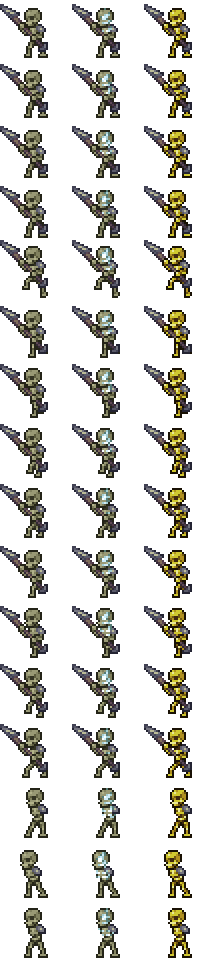
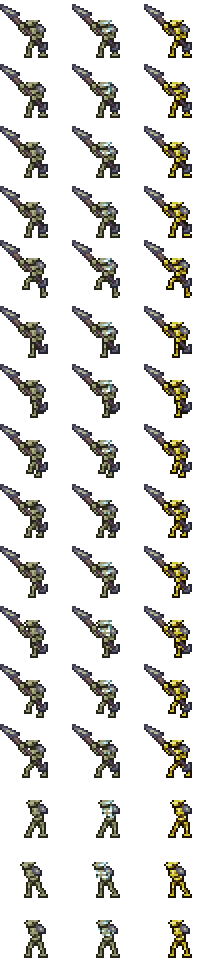
skeleton heads

diff --git a/NPCs/PreHM/SkeletonWanderer.cs b/NPCs/PreHM/SkeletonWanderer.cs
@@ -124,7 +124,7 @@ namespace Redemption.NPCs.PreHM
             if (AIState != ActionState.Stab)
                 NPC.LookByVelocity();
 
-            if (Main.rand.NextBool(500) && !Main.dedServ)
+            if (Main.rand.NextBool(1500) && !Main.dedServ)
                 SoundEngine.PlaySound(SoundLoader.GetLegacySoundSlot(Mod, "Sounds/Custom/" + SoundString + "Ambient"), NPC.position);
 
             switch (AIState)
@@ -246,6 +246,7 @@ namespace Redemption.NPCs.PreHM
             Main.dust[sparkle].velocity *= 0;
             Main.dust[sparkle].noGravity = true;
         }
+        private int HeadOffsetX;
         public override void FindFrame(int frameHeight)
         {
             if (Main.netMode != NetmodeID.Server)
@@ -257,6 +258,13 @@ namespace Redemption.NPCs.PreHM
                     PersonalityState.Greedy => NPC.frame.Width * 2,
                     _ => 0,
                 };
+                HeadX = Personality switch
+                {
+                    PersonalityState.Greedy => 1,
+                    _ => 0,
+                };
+                HeadOffset = SetHeadOffset(ref frameHeight);
+                HeadOffsetX = SetHeadOffsetX(ref frameHeight);
                 if (AIState is ActionState.Stab)
                 {
                     NPC.frameCounter++;
@@ -308,6 +316,15 @@ namespace Redemption.NPCs.PreHM
                     NPC.frame.Y = 4 * frameHeight;
                 }
             }
+        }
+        public int SetHeadOffsetX(ref int frameHeight)
+        {
+            return (NPC.frame.Y / frameHeight) switch
+            {
+                13 => 2,
+                14 => -4,
+                _ => 0,
+            };
         }
         public int GetNearestNPC(int[] WhitelistNPC = default, bool friendly = false)
         {
@@ -391,6 +408,21 @@ namespace Redemption.NPCs.PreHM
         }
         public void ChoosePersonality()
         {
+            WeightedRandom<int> head = new(Main.rand);
+            head.Add(0);
+            head.Add(1, 0.6);
+            head.Add(2, 0.6);
+            head.Add(3, 0.4);
+            head.Add(4, 0.4);
+            head.Add(5, 0.1);
+            head.Add(6, 0.1);
+            head.Add(7, 0.1);
+            head.Add(8, 0.06);
+            head.Add(9, 0.06);
+            head.Add(10, 0.06);
+            head.Add(11, 0.06);
+            HeadType = head;
+
             WeightedRandom<PersonalityState> choice = new(Main.rand);
             choice.Add(PersonalityState.Normal, 10);
             choice.Add(PersonalityState.Calm, 8);
@@ -404,10 +436,18 @@ namespace Redemption.NPCs.PreHM
         }
         public override bool PreDraw(SpriteBatch spriteBatch, Vector2 screenPos, Color drawColor)
         {
+            Texture2D head = ModContent.Request<Texture2D>("Redemption/NPCs/PreHM/Skeleton_Heads").Value;
             Texture2D glow = ModContent.Request<Texture2D>(NPC.ModNPC.Texture + "_Glow").Value;
             var effects = NPC.spriteDirection == -1 ? SpriteEffects.None : SpriteEffects.FlipHorizontally;
 
             spriteBatch.Draw(TextureAssets.Npc[NPC.type].Value, NPC.Center - screenPos - new Vector2(0, 2), NPC.frame, drawColor, NPC.rotation, NPC.frame.Size() / 2, NPC.scale, effects, 0);
+
+            int Height = head.Height / 12;
+            int Width = head.Width / 2;
+            int y = Height * HeadType;
+            int x = Width * HeadX;
+            Rectangle rect = new(x, y, Width, Height);
+            spriteBatch.Draw(head, NPC.Center - screenPos, new Rectangle?(rect), drawColor, NPC.rotation, NPC.frame.Size() / 2 + new Vector2((NPC.spriteDirection == 1 ? -26 : -20) + (HeadOffsetX * NPC.spriteDirection), -2 + HeadOffset), NPC.scale, effects, 0);
 
             if (HasEyes)
                 spriteBatch.Draw(glow, NPC.Center - screenPos - new Vector2(0, 2), NPC.frame, Color.White, NPC.rotation, NPC.frame.Size() / 2, NPC.scale, effects, 0);

diff --git a/NPCs/PreHM/EpidotrianSkeleton.cs b/NPCs/PreHM/EpidotrianSkeleton.cs
@@ -123,7 +123,7 @@ namespace Redemption.NPCs.PreHM
             NPC.TargetClosest();
             NPC.LookByVelocity();
 
-            if (Main.rand.NextBool(500) && !Main.dedServ)
+            if (Main.rand.NextBool(1500) && !Main.dedServ)
                 SoundEngine.PlaySound(SoundLoader.GetLegacySoundSlot(Mod, "Sounds/Custom/" + SoundString + "Ambient"), NPC.position);
             switch (AIState)
             {
@@ -225,6 +225,12 @@ namespace Redemption.NPCs.PreHM
                     PersonalityState.Greedy => NPC.frame.Width * 2,
                     _ => 0,
                 };
+                HeadX = Personality switch
+                {
+                    PersonalityState.Greedy => 1,
+                    _ => 0,
+                };
+                HeadOffset = SetHeadOffset(ref frameHeight);
 
                 if (NPC.collideY || NPC.velocity.Y == 0)
                 {
@@ -344,6 +350,21 @@ namespace Redemption.NPCs.PreHM
         }
         public void ChoosePersonality()
         {
+            WeightedRandom<int> head = new(Main.rand);
+            head.Add(0);
+            head.Add(1, 0.6);
+            head.Add(2, 0.6);
+            head.Add(3, 0.4);
+            head.Add(4, 0.4);
+            head.Add(5, 0.1);
+            head.Add(6, 0.1);
+            head.Add(7, 0.1);
+            head.Add(8, 0.06);
+            head.Add(9, 0.06);
+            head.Add(10, 0.06);
+            head.Add(11, 0.06);
+            HeadType = head;
+
             WeightedRandom<PersonalityState> choice = new(Main.rand);
             choice.Add(PersonalityState.Normal, 10);
             choice.Add(PersonalityState.Calm, 8);
@@ -360,10 +381,18 @@ namespace Redemption.NPCs.PreHM
         }
         public override bool PreDraw(SpriteBatch spriteBatch, Vector2 screenPos, Color drawColor)
         {
+            Texture2D head = ModContent.Request<Texture2D>("Redemption/NPCs/PreHM/Skeleton_Heads").Value;
             Texture2D glow = ModContent.Request<Texture2D>(NPC.ModNPC.Texture + "_Glow").Value;
             var effects = NPC.spriteDirection == -1 ? SpriteEffects.None : SpriteEffects.FlipHorizontally;
 
             spriteBatch.Draw(TextureAssets.Npc[NPC.type].Value, NPC.Center - screenPos, NPC.frame, NPC.IsABestiaryIconDummy ? drawColor : NPC.GetAlpha(drawColor), NPC.rotation, NPC.frame.Size() / 2, NPC.scale, effects, 0);
+
+            int Height = head.Height / 12;
+            int Width = head.Width / 2;
+            int y = Height * HeadType;
+            int x = Width * HeadX;
+            Rectangle rect = new(x, y, Width, Height);
+            spriteBatch.Draw(head, NPC.Center - screenPos, new Rectangle?(rect), drawColor, NPC.rotation, NPC.frame.Size() / 2 + new Vector2(NPC.spriteDirection == 1 ? -4 : 2, 2 + HeadOffset), NPC.scale, effects, 0);
 
             if (HasEyes)
                 spriteBatch.Draw(glow, NPC.Center - screenPos, NPC.frame, Color.White, NPC.rotation, NPC.frame.Size() / 2, NPC.scale, effects, 0);

diff --git a/NPCs/PreHM/SkeletonBase.cs b/NPCs/PreHM/SkeletonBase.cs
@@ -9,6 +9,7 @@ using Redemption.Buffs.NPCBuffs;
 using Redemption.BaseExtension;
 using Terraria.GameContent.UI;
 using Terraria.Utilities;
+using Microsoft.Xna.Framework;
 
 namespace Redemption.NPCs.PreHM
 {
@@ -20,6 +21,9 @@ namespace Redemption.NPCs.PreHM
         }
 
         public bool HasEyes;
+        public int HeadType;
+        public int HeadX;
+        public int HeadOffset;
         public int CoinsDropped;
         public string SoundString = "Skeleton";
 
@@ -60,6 +64,20 @@ namespace Redemption.NPCs.PreHM
                 return true;
 
             return false;
+        }
+        public virtual int SetHeadOffset(ref int frameHeight)
+        {
+            return (NPC.frame.Y / frameHeight) switch
+            {
+                1 => -2,
+                2 => -2,
+                3 => -2,
+                4 => 2,
+                5 => -2,
+                9 => -2,
+                14 => -2,
+                _ => 0,
+            };
         }
         public override bool PreAI()
         {
@@ -122,6 +140,26 @@ namespace Redemption.NPCs.PreHM
         }
         public virtual void SetStats()
         {
+            switch (HeadType)
+            {
+                case 3:
+                    NPC.lifeMax = (int)(NPC.lifeMax * 0.9f);
+                    NPC.life = (int)(NPC.life * 0.9f);
+                    break;
+                case 4:
+                    NPC.lifeMax = (int)(NPC.lifeMax * 0.9f);
+                    NPC.life = (int)(NPC.life * 0.9f);
+                    break;
+                case 5:
+                    NPC.defense += 2;
+                    break;
+                case 6:
+                    NPC.defense += 4;
+                    break;
+                case 7:
+                    NPC.value = (int)(NPC.value * 1.25f);
+                    break;
+            }
             switch (Personality)
             {
                 case PersonalityState.Calm:

diff --git a/NPCs/Critters/GrandLarva.cs b/NPCs/Critters/GrandLarva.cs
@@ -227,9 +227,9 @@ namespace Redemption.NPCs.Critters
         }
         public override float SpawnChance(NPCSpawnInfo spawnInfo)
         {
-            float cave = SpawnCondition.Cavern.Chance * 0.1f;
-            float desert = SpawnCondition.OverworldDayDesert.Chance * (spawnInfo.player.ZoneBeach ? 0f : 0.2f);
-            float desertUG = SpawnCondition.DesertCave.Chance * 0.2f;
+            float cave = SpawnCondition.Cavern.Chance * 0.07f;
+            float desert = SpawnCondition.OverworldDayDesert.Chance * (spawnInfo.player.ZoneBeach ? 0f : 0.1f);
+            float desertUG = SpawnCondition.DesertCave.Chance * 0.1f;
             return Math.Max(cave, Math.Max(desert, desertUG));
         }
 

diff --git a/NPCs/PreHM/SkeletonAssassin.cs b/NPCs/PreHM/SkeletonAssassin.cs
@@ -134,7 +134,7 @@ namespace Redemption.NPCs.PreHM
                 NPC.LookByVelocity();
             Rectangle KnifeHitbox = new((int)(NPC.spriteDirection == -1 ? NPC.Center.X - 46 : NPC.Center.X + 10), (int)(NPC.Center.Y - 12), 36, 18);
 
-            if (Main.rand.NextBool(1500) && !Main.dedServ)
+            if (Main.rand.NextBool(3500) && !Main.dedServ)
                 SoundEngine.PlaySound(SoundLoader.GetLegacySoundSlot(Mod, "Sounds/Custom/" + SoundString + "Ambient"), NPC.position);
 
             if (AIState is ActionState.Hiding or ActionState.Stalk)

diff --git a/NPCs/PreHM/SkeletonNoble.cs b/NPCs/PreHM/SkeletonNoble.cs
@@ -149,7 +149,7 @@ namespace Redemption.NPCs.PreHM
 
             Rectangle SlashHitbox = new((int)(NPC.spriteDirection == -1 ? NPC.Center.X - 78 : NPC.Center.X), (int)(NPC.Center.Y - 66), 78, 94);
 
-            if (Main.rand.NextBool(500) && !Main.dedServ)
+            if (Main.rand.NextBool(1500) && !Main.dedServ)
                 SoundEngine.PlaySound(SoundLoader.GetLegacySoundSlot(Mod, "Sounds/Custom/" + SoundString + "Ambient"), NPC.position);
 
             switch (AIState)

diff --git a/NPCs/PreHM/SkeletonDuelist.cs b/NPCs/PreHM/SkeletonDuelist.cs
@@ -136,7 +136,7 @@ namespace Redemption.NPCs.PreHM
             dodgeCooldown--;
             dodgeCooldown = (int)MathHelper.Max(0, dodgeCooldown);
 
-            if (Main.rand.NextBool(500) && !Main.dedServ)
+            if (Main.rand.NextBool(1500) && !Main.dedServ)
                 SoundEngine.PlaySound(SoundLoader.GetLegacySoundSlot(Mod, "Sounds/Custom/" + SoundString + "Ambient"), NPC.position);
 
             switch (AIState)

diff --git a/Globals/NPC/BuffNPC.cs b/Globals/NPC/BuffNPC.cs
@@ -174,7 +174,7 @@ namespace Redemption.Globals.NPC
                     npc.lifeRegen = 0;
                 npc.lifeRegen -= dirtyWoundTime / 500;
 
-                if (npc.wet && !npc.lavaWet)
+                if (npc.wet && !npc.lavaWet && npc.HasBuff(ModContent.BuffType<DirtyWoundDebuff>()))
                     npc.DelBuff(ModContent.BuffType<DirtyWoundDebuff>());
             }
             if (moonflare)

diff --git a/NPCs/PreHM/SkeletonFlagbearer.cs b/NPCs/PreHM/SkeletonFlagbearer.cs
@@ -126,7 +126,7 @@ namespace Redemption.NPCs.PreHM
             NPC.TargetClosest();
             NPC.LookByVelocity();
 
-            if (Main.rand.NextBool(500) && !Main.dedServ)
+            if (Main.rand.NextBool(1500) && !Main.dedServ)
                 SoundEngine.PlaySound(SoundLoader.GetLegacySoundSlot(Mod, "Sounds/Custom/" + SoundString + "Ambient"), NPC.position);
 
             switch (AIState)

diff --git a/NPCs/PreHM/CorpseWalkerPriest.cs b/NPCs/PreHM/CorpseWalkerPriest.cs
@@ -101,7 +101,7 @@ namespace Redemption.NPCs.PreHM
             RedeNPC globalNPC = NPC.Redemption();
             NPC.TargetClosest();
 
-            if (Main.rand.NextBool(500) && !Main.dedServ)
+            if (Main.rand.NextBool(1500) && !Main.dedServ)
                 SoundEngine.PlaySound(SoundLoader.GetLegacySoundSlot(Mod, "Sounds/Custom/" + SoundString + "Ambient"), NPC.position);
 
 

diff --git a/NPCs/PreHM/SkeletonWarden.cs b/NPCs/PreHM/SkeletonWarden.cs
@@ -152,7 +152,7 @@ namespace Redemption.NPCs.PreHM
                 }
             }
 
-            if (Main.rand.NextBool(500) && !Main.dedServ)
+            if (Main.rand.NextBool(1500) && !Main.dedServ)
                 SoundEngine.PlaySound(SoundLoader.GetLegacySoundSlot(Mod, "Sounds/Custom/" + SoundString + "Ambient"), NPC.position);
 
             switch (AIState)
